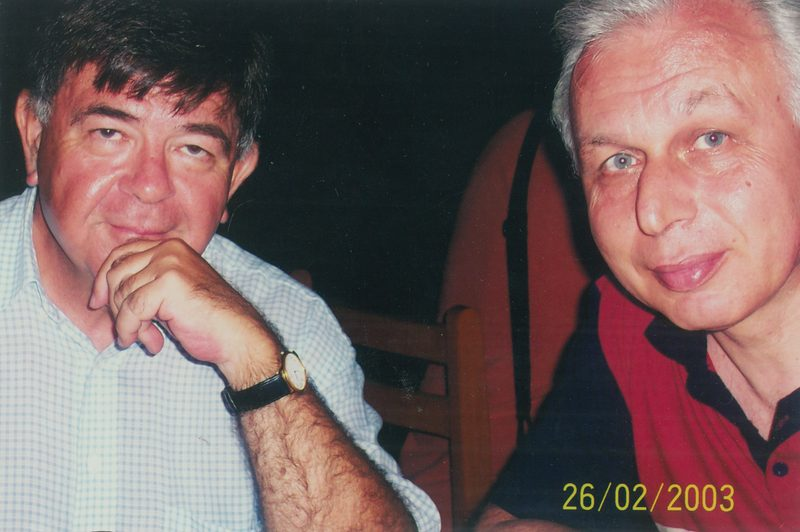
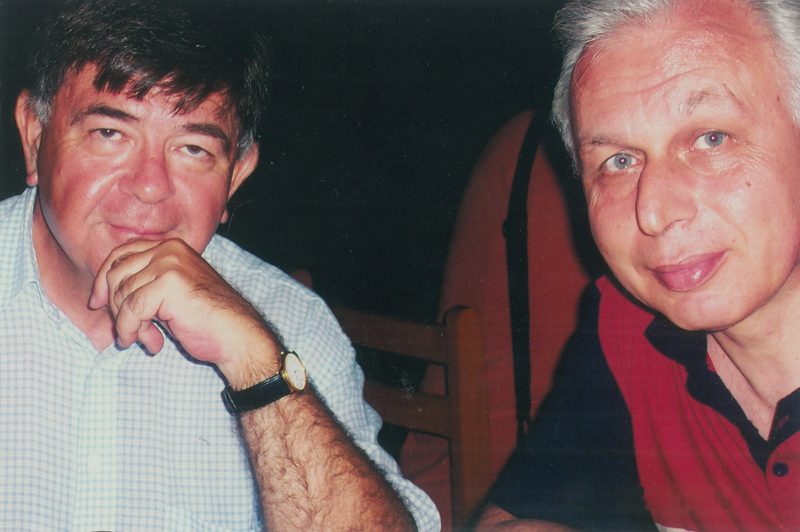
Remove the date imprint from photo 026

Changed region(s): [[0.6875, 0.9023, 0.9375, 0.9624]]

diff --git a/src/photoStory.ts b/src/photoStory.ts
@@ -9,6 +9,11 @@
  *  (some phone photos carried location data). `width`/`height` are the
  *  1600 version's, so the page reserves each photo's space before it loads.
  *
+ *  026 is the one retouched image: the camera's yellow date imprint
+ *  ("26/02/2003") in its lower right was painted out at the owner's request
+ *  on 2026-10-13 (OpenCV inpainting over the imprint's pixels only, with the
+ *  print's grain restored); the scan in Foto/taramalar is untouched.
+ *
  *  In captions, *x* marks a publication name in italics and **x** the owner's
  *  own bold, as in his document. */
 export interface PhotoStoryPhoto {
